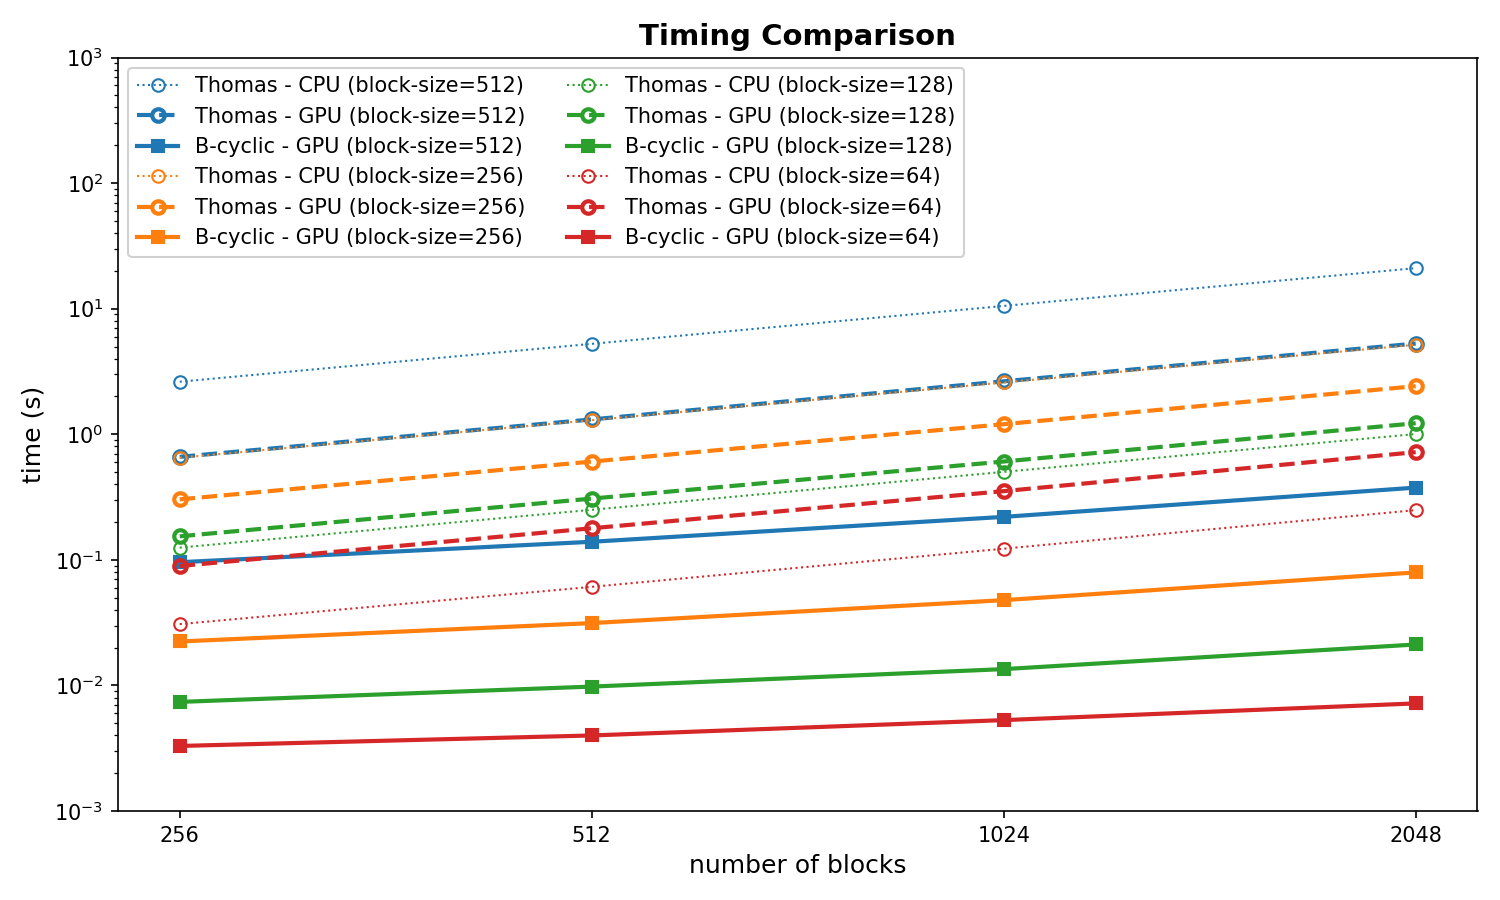
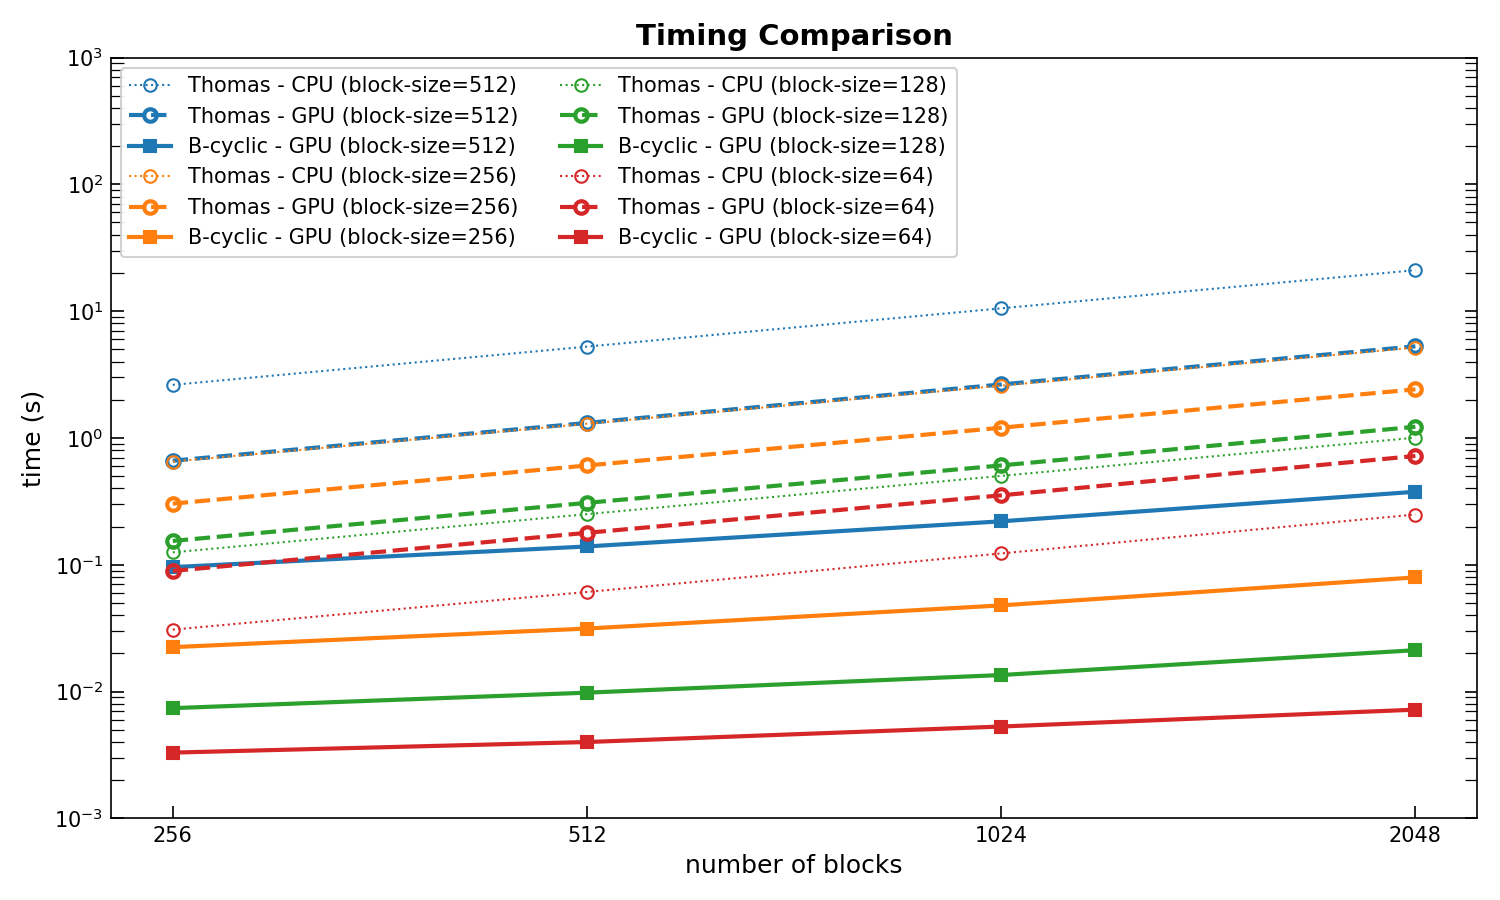
update plots

diff --git a/examples/timing/plot.py b/examples/timing/plot.py
@@ -70,8 +70,8 @@ def main():
         print("No slurm-cpu output files found.")
         return
 
-    gpu_file = max(slurm_gpu_files, key=os.path.getsize)
-    cpu_file = max(slurm_cpu_files, key=os.path.getsize)
+    gpu_file = max(slurm_gpu_files)
+    cpu_file = max(slurm_cpu_files)
     print(f"Reading timing results from {gpu_file} and {cpu_file}")
 
     (
@@ -144,6 +144,8 @@ def main():
     ax.set_yscale("log", base=10)
     ax.set_xticks([256, 512, 1024, 2048])
     ax.set_xticklabels([256, 512, 1024, 2048])
+    ax.tick_params(axis="both", which="both", direction="in", length=6)
+    ax.yaxis.set_ticks_position("both")
     ax.set_ylim(1e-3, 1e3)
     ax.set_xlabel("number of blocks", fontsize=12)
     ax.set_ylabel("time (s)", fontsize=12)
@@ -185,6 +187,8 @@ def main():
     ax.set_xscale("log", base=2)
     ax.set_xticks([256, 512, 1024, 2048])
     ax.set_xticklabels([256, 512, 1024, 2048])
+    ax.tick_params(axis="both", which="both", direction="in", length=6)
+    ax.yaxis.set_ticks_position("both")
     ax.set_ylim(0, 120)
     ax.set_xlabel("number of blocks", fontsize=12)
     ax.set_ylabel("speedup", fontsize=12)
